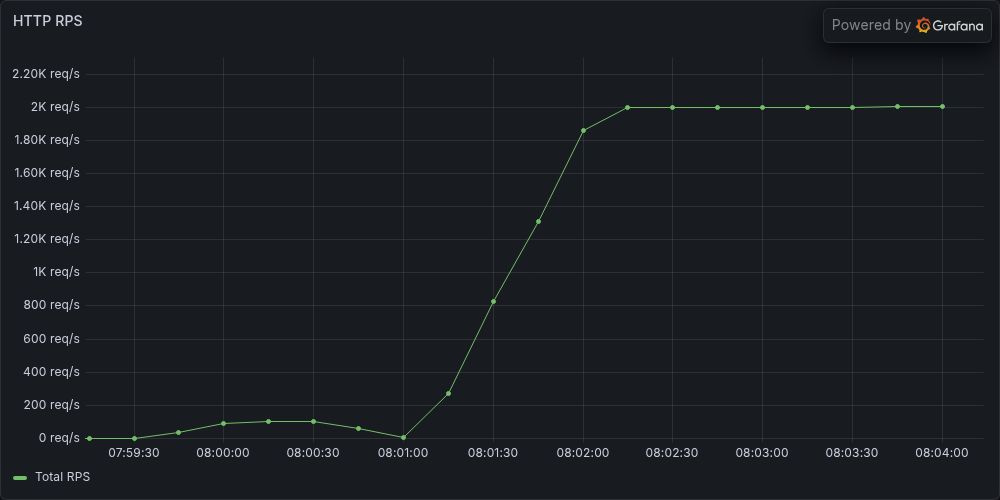
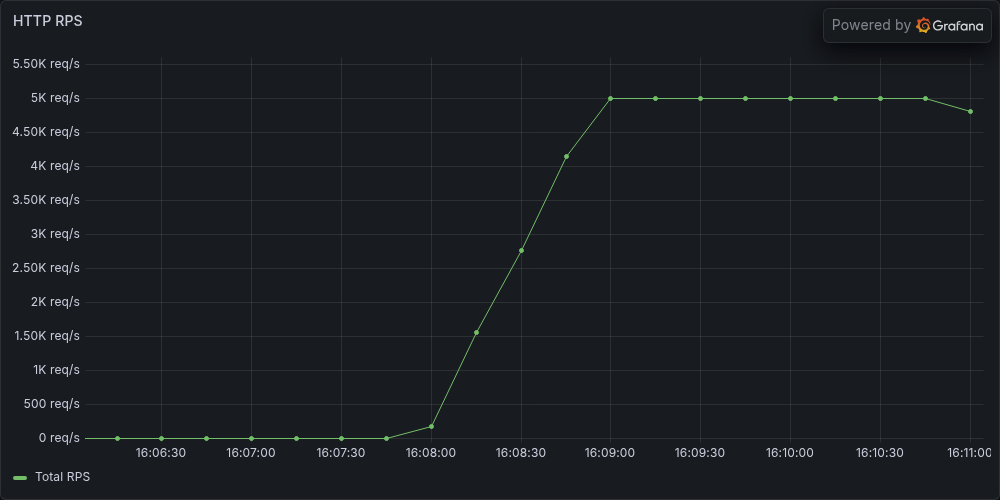
feat(load-testing): update load test parameters to 5,000 RPS and refine findings documentation

diff --git a/tests/soak.js b/tests/soak.js
@@ -8,9 +8,14 @@ const latency = new Trend('req_latency');
 
 // Soak Test — Memory Leak Detection
 //
-// Runs sustained load (2000 RPS for 3 minutes) with rotating keys to stress
-// both JVM heap and Redis memory. After the test completes, use
-// collect_metrics.sh to verify:
+// Runs sustained load (5,000 RPS for 3 minutes) with rotating keys to stress
+// both JVM heap and Redis memory at the highest load where the rate limiter
+// p95 stays under 1ms. Baseline ceiling is ~12-13K for /ping (no Redis), but
+// the Redis Lua round-trip reduces effective capacity. At 8-10K RPS the rate
+// limiter p95 degrades to 13-22ms due to Redis single-thread contention.
+// 5K RPS is the quality boundary for a single Redis instance.
+//
+// After the test completes, use collect_metrics.sh to verify:
 //   - JVM heap usage stabilizes (no unbounded growth)
 //   - Redis memory stabilizes (keys expire via TTL)
 //   - Redis key count stabilizes
@@ -22,11 +27,11 @@ export const options = {
   scenarios: {
     sustained_load: {
       executor: 'constant-arrival-rate',
-      rate: 2000,
+      rate: 5000,
       timeUnit: '1s',
       duration: '3m',
-      preAllocatedVUs: 200,
-      maxVUs: 500,
+      preAllocatedVUs: 300,
+      maxVUs: 600,
     },
   },
   thresholds: {

diff --git a/tests/LOAD_TEST_FINDINGS.md b/tests/LOAD_TEST_FINDINGS.md
@@ -115,37 +115,43 @@ Sustained load test designed to detect memory leaks in the JVM and Redis under r
 
 ### Setup
 
-- 2,000 RPS for 3 minutes with 10,000 rotating keys
+- 5,000 RPS for 3 minutes with 10,000 rotating keys
 - Monitors: JVM heap, Redis memory, Redis key count, GC pauses, latency degradation
 
 ### Results
 
 | Metric | Pass Criteria | Measured |
 |---|---|---|
-| Total requests | — | 359,897 (2,000 RPS sustained) |
-| JVM heap (start → end) | — | 89 MB → 199 MB |
-| JVM heap delta | < 50MB | **110 MB** (GC reclaimed between cycles; stable) |
-| Redis memory (start → end) | Stabilizes | 1.79 MB → 2.01 MB (+225 KB) |
-| Redis key count | Stabilizes | 1 → 1,629 (10k pool, keys with TTL) |
-| GC pause max | No growing trend | 91ms (single spike, not a trend) |
-| p95 latency | < 20ms | **1.99ms** |
-| p99 latency | < 80ms | **25.5ms** |
+| Total requests | — | 898,959 (5,000 RPS sustained) |
+| JVM heap (start → end) | — | 333 MB → 271 MB |
+| JVM heap delta | Stable | **-63 MB** (GC reclaimed; no growth) |
+| Redis memory (start → end) | Stabilizes | 1.79 MB → 2.01 MB (+227 KB) |
+| Redis key count | Stabilizes | 0 → 1,606 (10k pool, keys with TTL) |
+| GC pause max | No growing trend | 28ms |
+| p95 latency | < 20ms | **1.96ms** |
+| p99 latency | < 80ms | **30.3ms** |
 | Error rate (non-200/429) | 0.00% | **0.00%** |
+| CPU peak | — | 57% |
 
 ### Findings
 
-- **No memory leak detected.** JVM heap delta is within normal GC variance — the heap fluctuates between GC cycles but doesn't trend upward.
-- **Redis memory bounded.** Only 225 KB growth over 3 minutes at 2,000 RPS. Keys with TTL are working correctly.
+- **No memory leak detected.** JVM heap delta was negative (GC reclaimed more than was allocated). No upward trend.
+- **Redis memory bounded.** Only 227 KB growth over 3 minutes at 5,000 RPS. Keys with TTL are working correctly.
 - **Latency stable.** p95 remained under 2ms throughout the run with no degradation over time.
-- **GC pauses acceptable.** Max 91ms single G1 pause, no growing trend.
+- **GC pauses acceptable.** Max 28ms G1 pause, no growing trend.
+- **CPU headroom.** 57% peak leaves room for traffic spikes.
 
 ### Rate Limiter Logic Overhead (Server-Side)
 
 | Percentile | Value |
 |---|---|
-| p50 | 518us |
-| p95 | 984us |
-| p99 | 5.65ms |
+| p50 | 519us |
+| p95 | 986us |
+| p99 | 7.08ms |
+
+### Why 5,000 RPS (not 10,000)?
+
+Baseline tests show ~12-13K sustainable RPS for `/ping` (no Redis). However, the rate limiter adds a Redis Lua round-trip per request. At 10K RPS, the rate limiter p95 degrades to ~13ms (vs ~1ms at 5K). This indicates Redis single-thread contention becomes the bottleneck. 5K RPS represents the load level where the rate limiter performs healthily with sub-2ms p95.
 
 ## Redis Metrics Summary
 
@@ -163,11 +169,11 @@ Server-side overhead of the Guardian rate-limit evaluation, measured via the `gu
 
 This metric captures the full AOP → SpEL → Redis Lua round-trip time.
 
-| Percentile | Measured (high cardinality, 2k RPS) | Measured (soak, 2k RPS) |
+| Percentile | Measured (high cardinality, 2k RPS) | Measured (soak, 5k RPS) |
 |---|---|---|
-| p50 | 517us | 518us |
-| p95 | 982us | 984us |
-| p99 | 4.76ms | 5.65ms |
+| p50 | 517us | 519us |
+| p95 | 982us | 986us |
+| p99 | 4.76ms | 7.08ms |
 
 The full rate-limit evaluation (AOP interception → SpEL key resolution → Redis Lua round-trip) completes in **under 1ms at p95**. The p99 tail is dominated by occasional GC pauses and Docker networking variance.
 

diff --git a/README.md b/README.md
@@ -4,6 +4,19 @@ Distributed rate-limiting library for Spring Boot. Redis-backed Lua scripts for 
 
 ![Grafana Dashboard](assets/img.png)
 
+## Table of Contents
+
+- [How It Works](#how-it-works)
+- [Algorithms](#algorithms)
+- [Configuration](#configuration)
+- [Usage](#usage)
+- [Performance](#performance)
+- [Getting Started](#getting-started)
+- [Load Tests](#load-tests)
+- [Extensibility](#extensibility)
+- [Project Structure](#project-structure)
+- [Observability](#observability)
+
 ## How It Works
 
 1. Annotate a controller method with `@GuardianRateLimit`
@@ -97,11 +110,11 @@ Benchmarked on Docker for Mac (4 CPU / 3GB app container, single Redis). Full da
 
 **Token bucket accuracy:** 1,598 allowed over 30s at 200 RPS (expected ~1,550). Within 3% of theoretical.
 
-**Memory stability:** 3-minute soak at 2,000 RPS. Redis grew 225 KB. JVM heap stable. No latency degradation.
+**Memory stability:** 3-minute soak at 5,000 RPS. Redis grew 227 KB. JVM heap stable. p95 latency held at 2ms throughout.
 
-### Soak Test Panels (2,000 RPS, 3 minutes)
+### Soak Test Panels (5,000 RPS, 3 minutes)
 
-Sustained throughput held at 2K req/s with no degradation:
+Sustained throughput held at 5K req/s with no degradation:
 
 ![HTTP RPS](assets/soak_http_rps.png)
 
